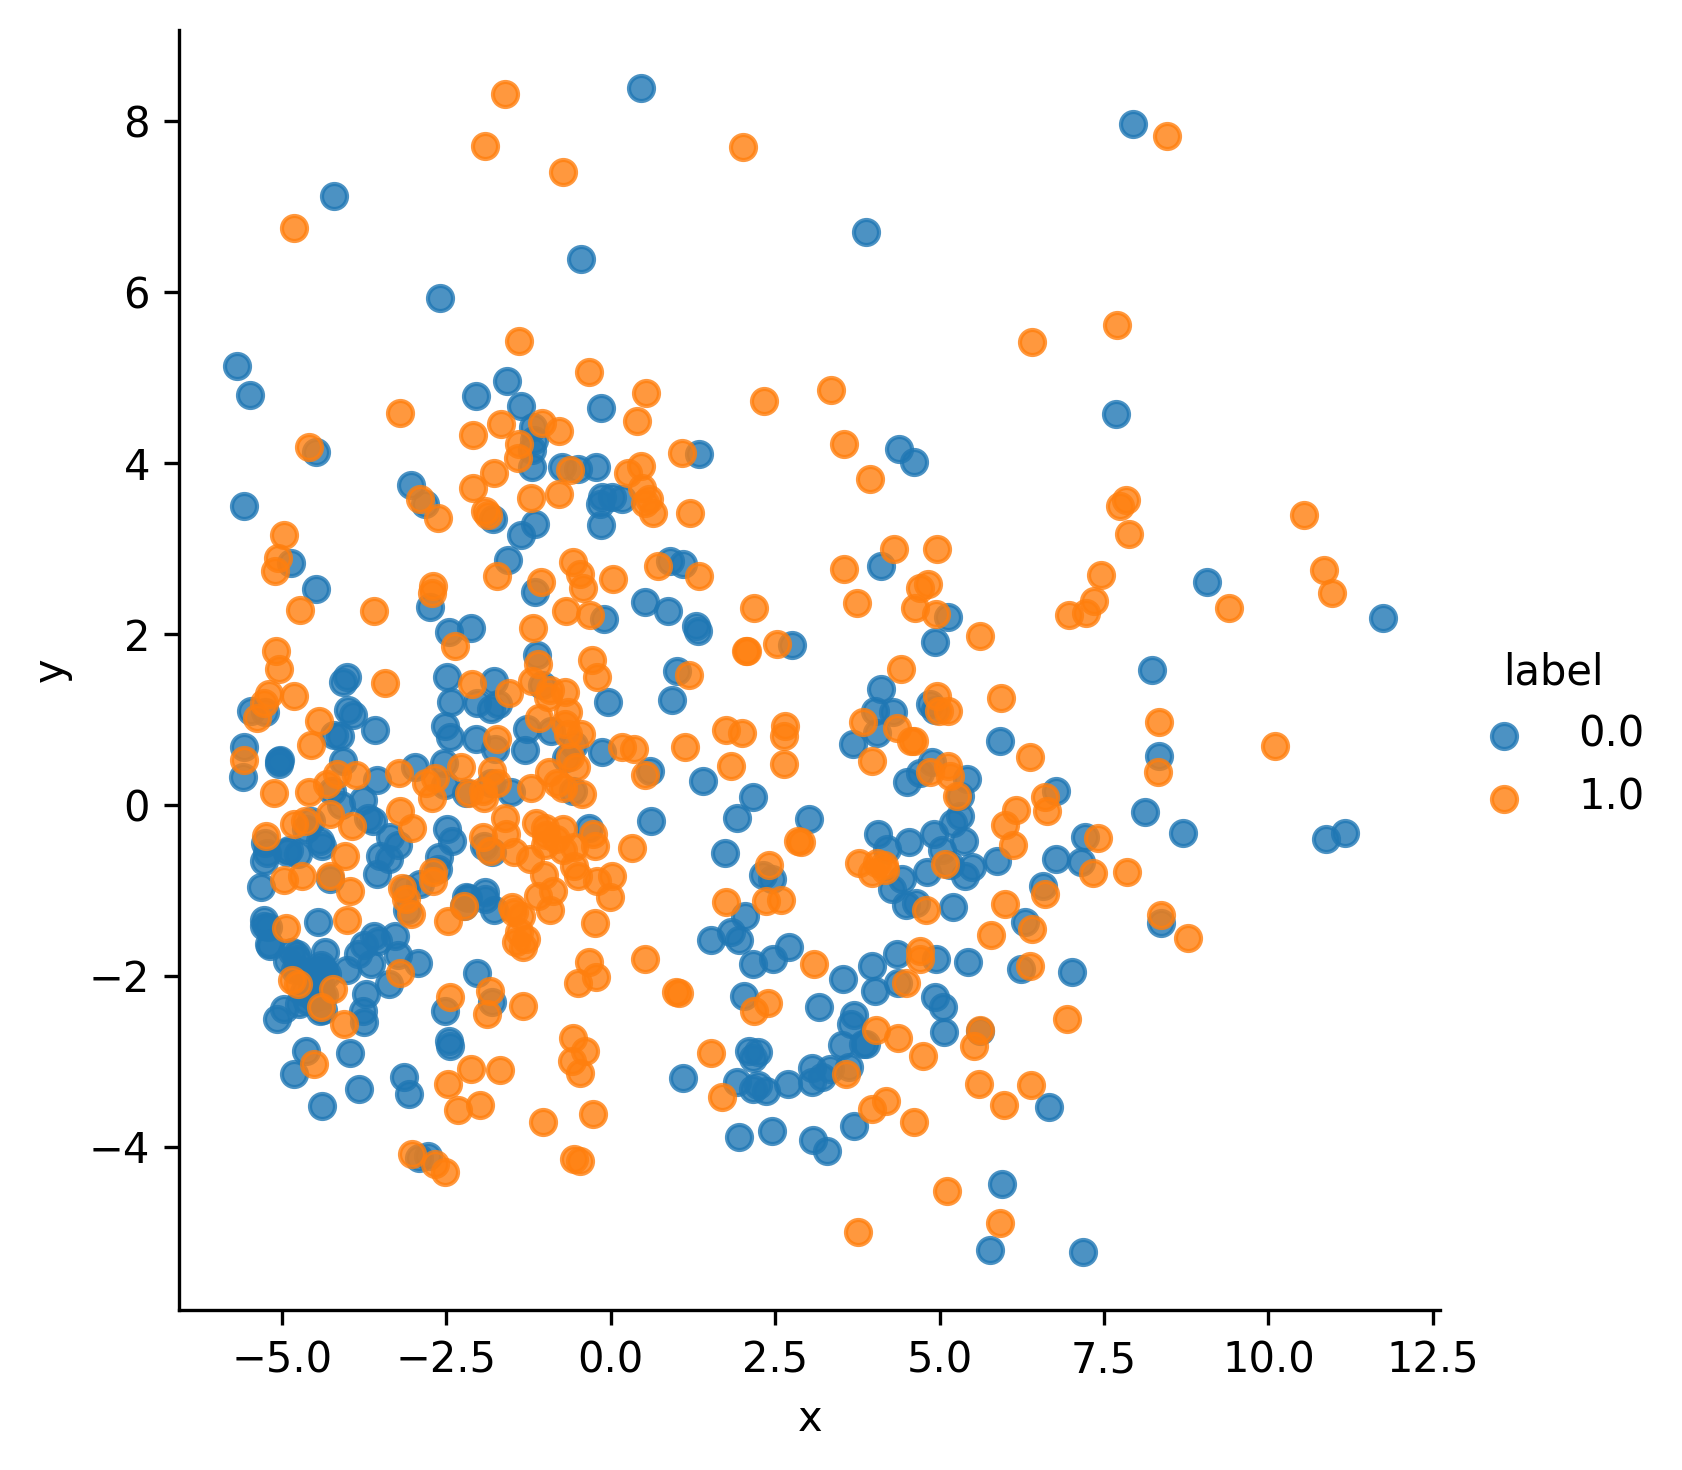
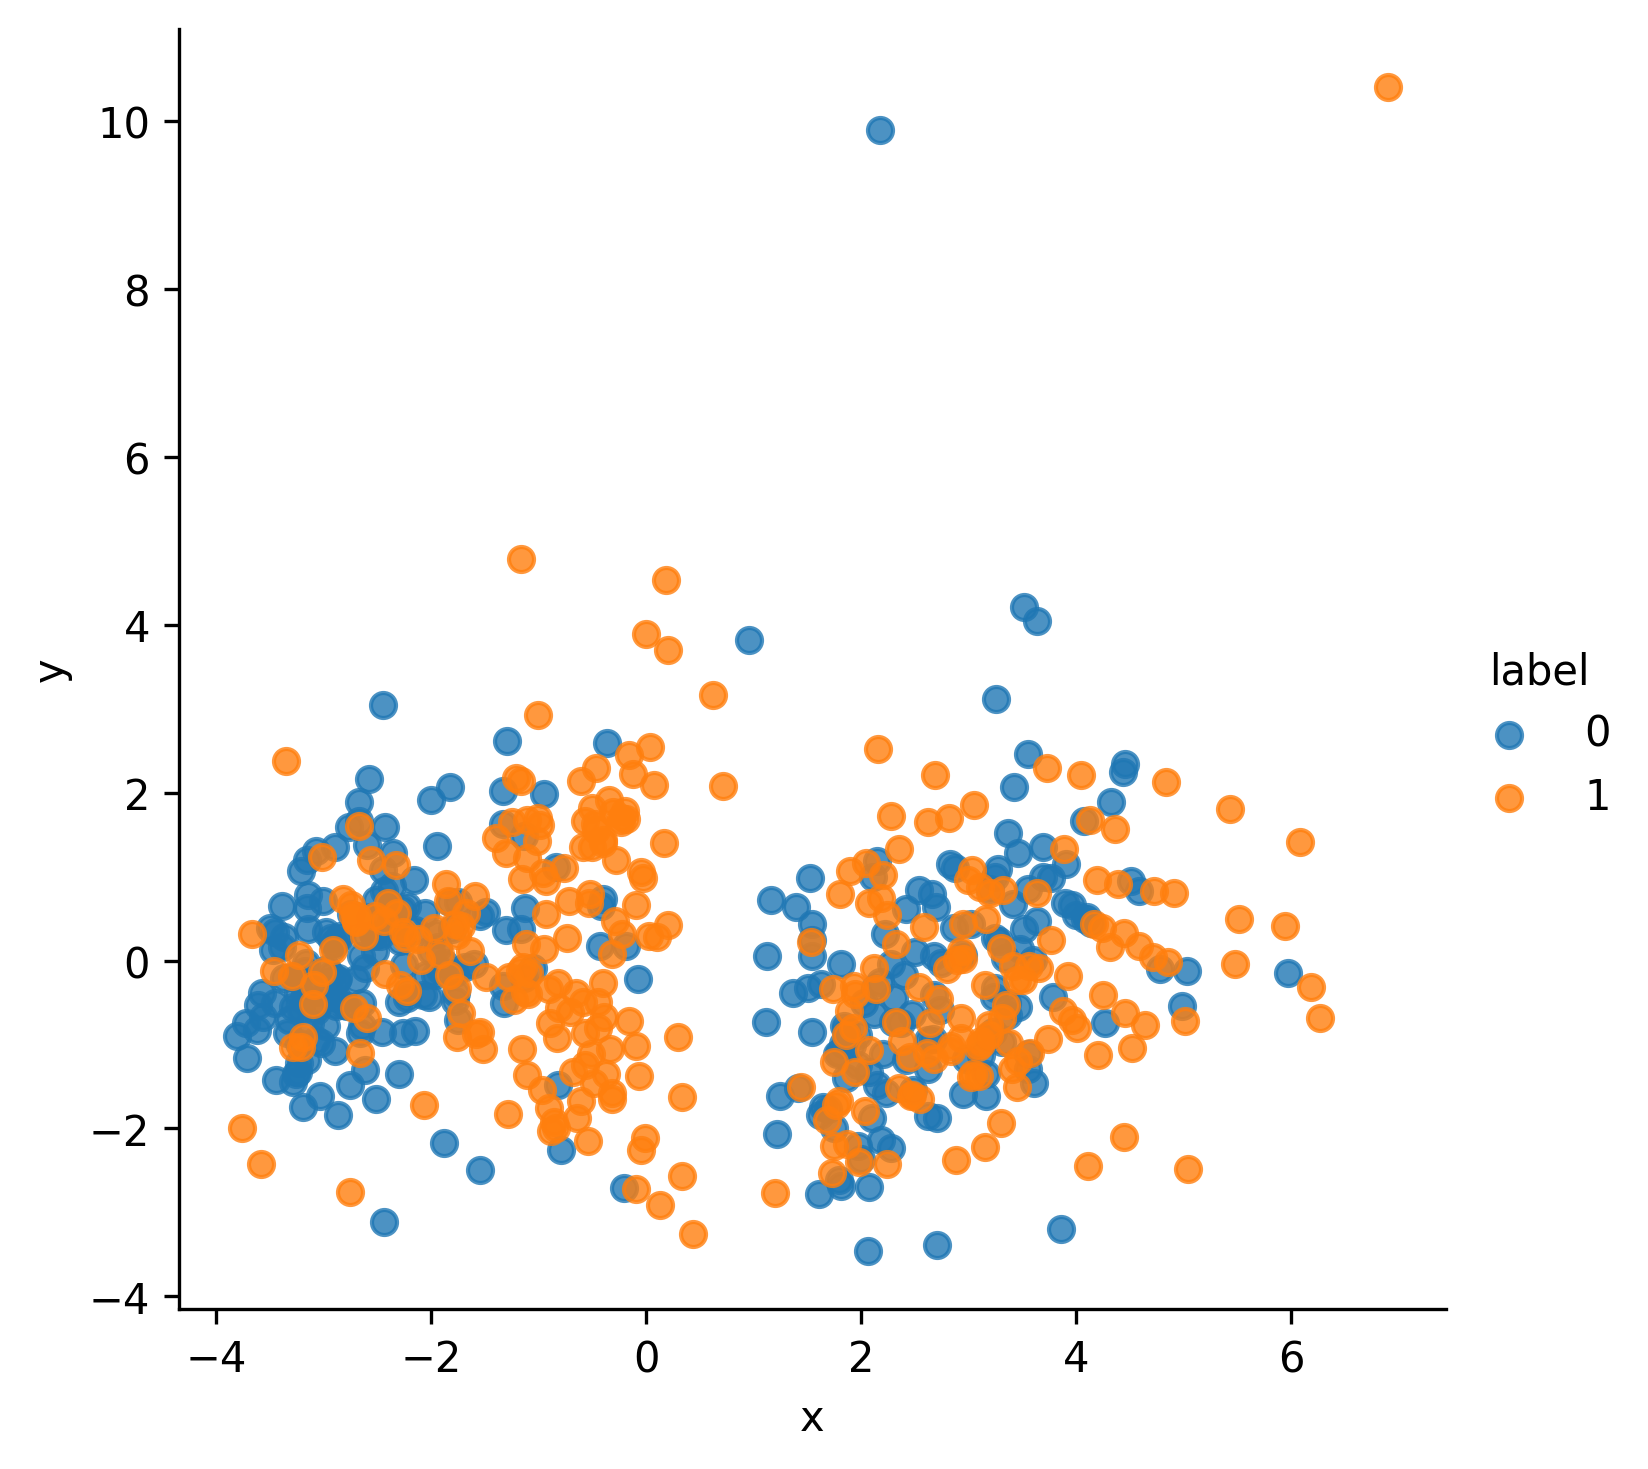
KMeans working and verified, removed src folder with torchmimic

diff --git a/.ipynb_checkpoints/train-checkpoint.py b/.ipynb_checkpoints/train-checkpoint.py
@@ -23,11 +23,19 @@ from models import VAE
 
 from sklearn.manifold import TSNE
 from sklearn.decomposition import PCA
+from sklearn.cluster import KMeans
+
+import numpy as np
+from scipy import stats
 
 def load_data(config):
     print("Loading dataset")
 
-    dataset = IHMDataset(root='/data/datasets/mimic3-benchmarks/data/in-hospital-mortality', train=True, customListFile = 'train_listfile_CHF.csv')
+    dataset = IHMDataset(root='/data/datasets/mimic3-benchmarks/data/in-hospital-mortality', train=True, customListFile = 'train_listfile.csv')
+    
+    print("Listfile done")
+    
+    # dataset_test = IHMDataset(root='/data/datasets/mimic3-benchmarks/data/in-hospital-mortality', train=False, customListFile = 'test_listfile.csv')
     
     # dataset = LOSDataset(root='/data/datasets/mimic3-benchmarks/data/length-of-stay', train=True, n_samples = 1836, customListFile = 'train_listfile.csv')
     # dataset = PhenotypingDataset(root='/data/datasets/mimic3-benchmarks/data/phenotyping', train=True)
@@ -39,7 +47,7 @@ def load_data(config):
 
     print("finished dataloader initializing")
     
-    print(dataset[0][0].size(), dataset[1][0].size())
+    # print(dataset[0][0].size(), dataset[1][0].size())
     
     return data_loader
 
@@ -73,10 +81,9 @@ def train(config):
         decode_hidden=config["decode_hidden"]).to(device)
     
     optimizer = torch.optim.Adam(vae.parameters(), lr=config["lr"])
-    # optimizer = torch.optim.RMSprop(vae.parameters(), lr=0.0003, momentum=0.1, alpha=0.001)
     
     # print("Epochs: {:02d} Batch Size: {:02d} Learning Rate: {:.4f}".format(config["epochs"], config["batchSize"], config["lr"]))
-    
+
     epochRange = config["epochs"]
 
     logs = defaultdict(list)
@@ -97,15 +104,8 @@ def train(config):
             else:
                 recon_x, mean, log_var, z = vae(x)
             
-#             print("Z Shape")
-#             print(z.shape)
-            
-#             print(mean.shape)
-#             print(log_var.shape)
-#             print(recon_x.shape)
-            
             # Z, mean, and log_var all have size of ([batch_size, hidden size])
-            
+             
             #CALCULATE LOSS
             loss = loss_fn(recon_x, x, mean, log_var, config)
 
@@ -125,8 +125,8 @@ def train(config):
                 
                 if (x.size(dim=0) != 1) and (not args.no_plots):
                     pca = PCA(n_components=2)
-                    # newZ = pca.fit_transform(z.detach().cpu().numpy())
-                    newMean = pca.fit_transform(mean.detach().cpu().numpy())
+                    newZ = pca.fit_transform(z.detach().cpu().numpy())
+                    # newMean = pca.fit_transform(mean.detach().cpu().numpy())
                     # newVar = pca.fit_transform(log_var.detach().cpu().numpy())
                     
                     # print(newMean.shape)
@@ -134,9 +134,20 @@ def train(config):
 
                     for i, yi in enumerate(y):
                         id = len(tracker_epoch)
-                        tracker_epoch[id]['x'] = newMean[i, 0].item()
-                        tracker_epoch[id]['y'] = newMean[i, 1].item()
+                        tracker_epoch[id]['x'] = newZ[i, 0].item()
+                        tracker_epoch[id]['y'] = newZ[i, 1].item()
                         tracker_epoch[id]['label'] = yi.item()
+        
+        trackerdf = pd.DataFrame.from_dict(tracker_epoch, orient='index')
+        
+        trackerdata = trackerdf.groupby('label').head(300)
+        # print(trackerdata.head(10))
+        trackerdata = trackerdata.drop(columns=['label'])
+        
+        
+        kmeans = KMeans(n_clusters=2, n_init='auto')
+        pred = kmeans.fit_predict(trackerdata)
+        # print(pred)
         
         if args.tune:
             session.report(
@@ -144,8 +155,11 @@ def train(config):
             )
         elif not args.no_plots:
             df = pd.DataFrame.from_dict(tracker_epoch, orient='index')
+            data = df.groupby('label').head(300)
+            data['pred'] = pred
+            print(df.head(5))
             g = sns.lmplot(
-                x='x', y='y', hue='label', data=df.groupby('label').head(300),
+                x='x', y='y', hue='pred', data=data,
                 fit_reg=False, legend=True)
             g.savefig(os.path.join(
                 args.fig_root, "E{:d}-Dist.png".format(epoch)),
@@ -225,7 +239,7 @@ if __name__ == '__main__':
     d_hd = 128
     
     parser = argparse.ArgumentParser()
-    parser.add_argument("--seed", type=int, default=0)
+    parser.add_argument("--seed", type=int, default=42)
     
     parser.add_argument("--epochs", type=int, default=ep)
     parser.add_argument("--batch_size", type=int, default=bs)

diff --git a/train.py b/train.py
@@ -23,11 +23,19 @@ from models import VAE
 
 from sklearn.manifold import TSNE
 from sklearn.decomposition import PCA
+from sklearn.cluster import KMeans
+
+import numpy as np
+from scipy import stats
 
 def load_data(config):
     print("Loading dataset")
 
-    dataset = IHMDataset(root='/data/datasets/mimic3-benchmarks/data/in-hospital-mortality', train=True, customListFile = 'train_listfile_CHF.csv')
+    dataset = IHMDataset(root='/data/datasets/mimic3-benchmarks/data/in-hospital-mortality', train=True, customListFile = 'train_listfile.csv')
+    
+    print("Listfile done")
+    
+    # dataset_test = IHMDataset(root='/data/datasets/mimic3-benchmarks/data/in-hospital-mortality', train=False, customListFile = 'test_listfile.csv')
     
     # dataset = LOSDataset(root='/data/datasets/mimic3-benchmarks/data/length-of-stay', train=True, n_samples = 1836, customListFile = 'train_listfile.csv')
     # dataset = PhenotypingDataset(root='/data/datasets/mimic3-benchmarks/data/phenotyping', train=True)
@@ -39,7 +47,7 @@ def load_data(config):
 
     print("finished dataloader initializing")
     
-    print(dataset[0][0].size(), dataset[1][0].size())
+    # print(dataset[0][0].size(), dataset[1][0].size())
     
     return data_loader
 
@@ -73,10 +81,9 @@ def train(config):
         decode_hidden=config["decode_hidden"]).to(device)
     
     optimizer = torch.optim.Adam(vae.parameters(), lr=config["lr"])
-    # optimizer = torch.optim.RMSprop(vae.parameters(), lr=0.0003, momentum=0.1, alpha=0.001)
     
     # print("Epochs: {:02d} Batch Size: {:02d} Learning Rate: {:.4f}".format(config["epochs"], config["batchSize"], config["lr"]))
-    
+
     epochRange = config["epochs"]
 
     logs = defaultdict(list)
@@ -97,15 +104,8 @@ def train(config):
             else:
                 recon_x, mean, log_var, z = vae(x)
             
-#             print("Z Shape")
-#             print(z.shape)
-            
-#             print(mean.shape)
-#             print(log_var.shape)
-#             print(recon_x.shape)
-            
             # Z, mean, and log_var all have size of ([batch_size, hidden size])
-            
+             
             #CALCULATE LOSS
             loss = loss_fn(recon_x, x, mean, log_var, config)
 
@@ -125,8 +125,8 @@ def train(config):
                 
                 if (x.size(dim=0) != 1) and (not args.no_plots):
                     pca = PCA(n_components=2)
-                    # newZ = pca.fit_transform(z.detach().cpu().numpy())
-                    newMean = pca.fit_transform(mean.detach().cpu().numpy())
+                    newZ = pca.fit_transform(z.detach().cpu().numpy())
+                    # newMean = pca.fit_transform(mean.detach().cpu().numpy())
                     # newVar = pca.fit_transform(log_var.detach().cpu().numpy())
                     
                     # print(newMean.shape)
@@ -134,9 +134,20 @@ def train(config):
 
                     for i, yi in enumerate(y):
                         id = len(tracker_epoch)
-                        tracker_epoch[id]['x'] = newMean[i, 0].item()
-                        tracker_epoch[id]['y'] = newMean[i, 1].item()
+                        tracker_epoch[id]['x'] = newZ[i, 0].item()
+                        tracker_epoch[id]['y'] = newZ[i, 1].item()
                         tracker_epoch[id]['label'] = yi.item()
+        
+        trackerdf = pd.DataFrame.from_dict(tracker_epoch, orient='index')
+        
+        trackerdata = trackerdf.groupby('label').head(300)
+        # print(trackerdata.head(10))
+        trackerdata = trackerdata.drop(columns=['label'])
+        
+        
+        kmeans = KMeans(n_clusters=2, n_init='auto')
+        pred = kmeans.fit_predict(trackerdata)
+        # print(pred)
         
         if args.tune:
             session.report(
@@ -144,8 +155,11 @@ def train(config):
             )
         elif not args.no_plots:
             df = pd.DataFrame.from_dict(tracker_epoch, orient='index')
+            data = df.groupby('label').head(300)
+            data['pred'] = pred
+            print(df.head(5))
             g = sns.lmplot(
-                x='x', y='y', hue='label', data=df.groupby('label').head(300),
+                x='x', y='y', hue='pred', data=data,
                 fit_reg=False, legend=True)
             g.savefig(os.path.join(
                 args.fig_root, "E{:d}-Dist.png".format(epoch)),
@@ -225,7 +239,7 @@ if __name__ == '__main__':
     d_hd = 128
     
     parser = argparse.ArgumentParser()
-    parser.add_argument("--seed", type=int, default=0)
+    parser.add_argument("--seed", type=int, default=42)
     
     parser.add_argument("--epochs", type=int, default=ep)
     parser.add_argument("--batch_size", type=int, default=bs)

diff --git a/.ipynb_checkpoints/tester-checkpoint.py b/.ipynb_checkpoints/tester-checkpoint.py
@@ -1,0 +1,70 @@
+from __future__ import absolute_import
+from __future__ import print_function
+
+import random
+import os
+import torch
+
+import numpy as np
+
+from torchmimic.data.preprocessing import Discretizer, Normalizer
+from torchmimic.data.readers import InHospitalMortalityReader
+from torchmimic.data.utils import read_chunk
+from torchmimic.data.base_dataset import BaseDataset
+
+
+class IHMDataset(BaseDataset):
+    """
+    In-Hospital-Mortality dataset that can be directly used by PyTorch dataloaders. This class preprocessing the data the same way as "Multitask learning and benchmarking with clinical time series data": https://github.com/YerevaNN/mimic3-benchmarks
+
+    :param root: directory where data is located
+    :type root: str
+    :param train: if true, the training split of the data will be used. Otherwise, the validation dataset will be used
+    :type train: bool
+    :param n_samples: number of samples to use. If None, all the data is used
+    :type steps: int
+    :param customListFile: listfile to use. If None, use train_listfile.csv
+    :type steps: str
+    """
+
+    def __init__(
+        self,
+        root,
+        train=True,
+        transform=None,
+        n_samples=None,
+        customListFile=None,
+    ):
+        """
+        Initialize IHMDataset
+
+        :param root: directory where data is located
+        :type root: str
+        :param train: if true, the training split of the data will be used. Otherwise, the validation dataset will be used
+        :type train: bool
+        :param n_samples: number of samples to use. If None, all the data is used
+        :type steps: int
+        :param customListFile: listfile to use. If None, use train_listfile.csv
+        :type steps: str
+        """
+        super().__init__(transform=transform)
+
+        listfile = "train_listfile.csv" if train else "val_listfile.csv"
+
+        if customListFile is not None:
+            listfile = customListFile
+            
+        print(listfile)
+
+        self._read_data(root, listfile)
+        self._load_data(n_samples)
+
+        self.n_samples = len(self.data)
+
+    def _read_data(self, root, listfile):
+        self.reader = InHospitalMortalityReader(
+            dataset_dir=os.path.join(root, "train"),
+            listfile=os.path.join(root, listfile),
+        )
+
+        
